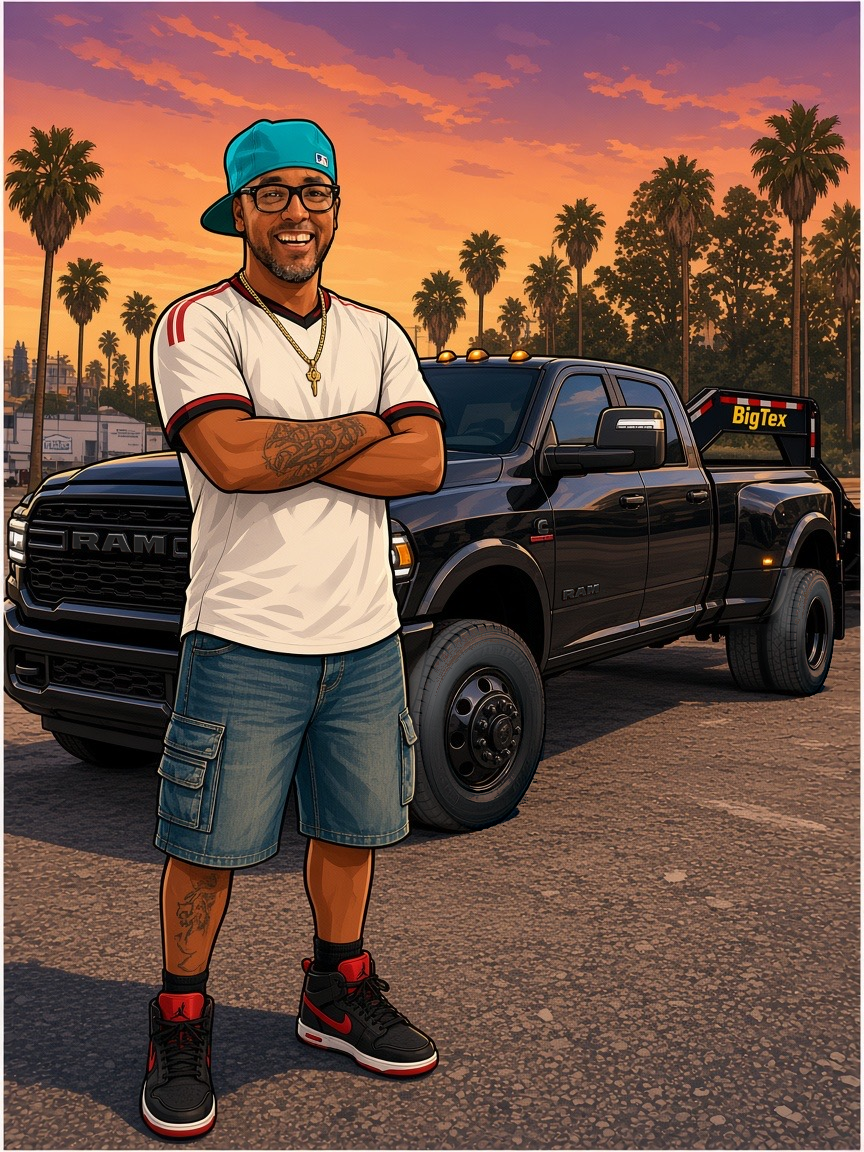
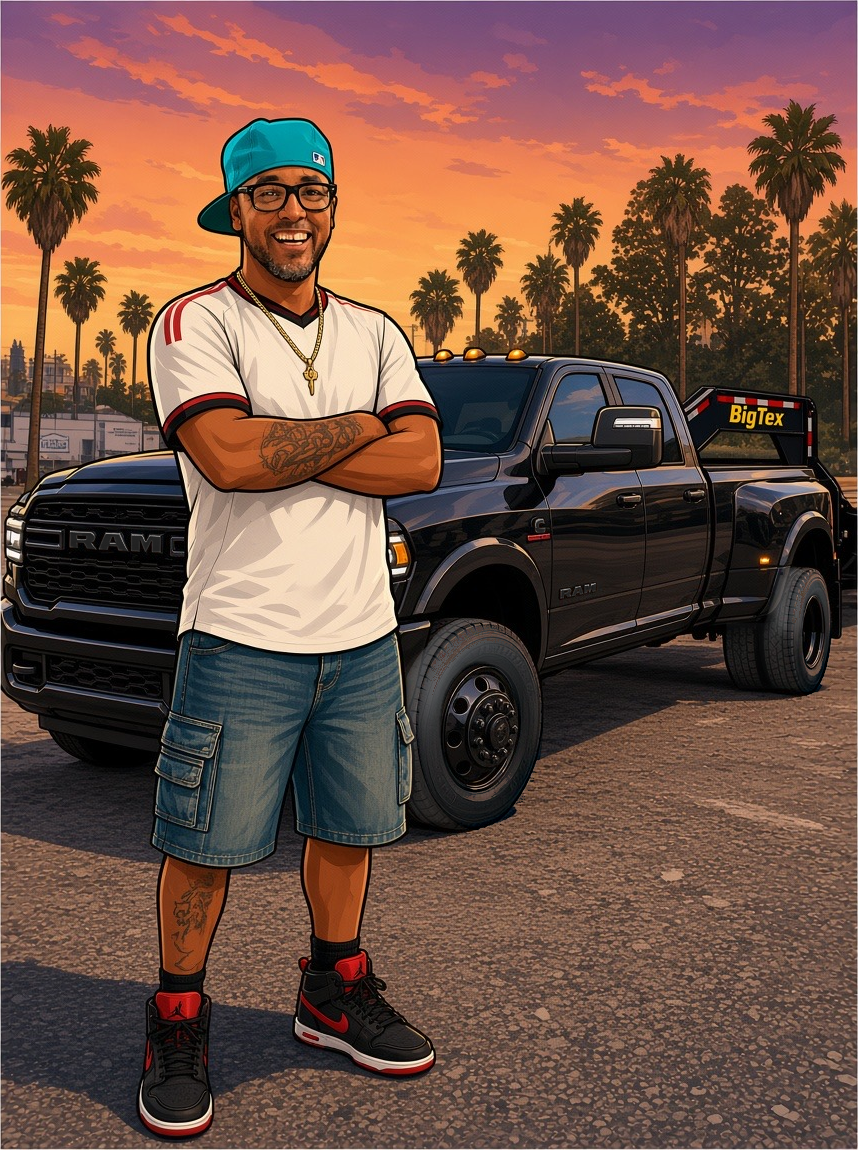
v133 Team portraits: crop the white GTA frame off Claudio, Ben, Meshach and Felix (lossless PNG, full resolution) so the art fills the rounded frame edge to edge with object-fit:cover. Hero and roster faces have no CSS white border, outline or padding; the gold ring and dark card line stay. [skip ci

diff --git a/driver360.js b/driver360.js
@@ -9,7 +9,7 @@
   var PIN_KEY = 'blackram_relay_pin_v1';
   var FIN_KEY = 'blackram_fin_session_v1';
   var NAME = 'Meshach';
-  var ART = 'brand/meshach-360.png?v=129';
+  var ART = 'brand/meshach-360.png?v=133';
   var MON = ['Jan', 'Feb', 'Mar', 'Apr', 'May', 'Jun', 'Jul', 'Aug', 'Sep', 'Oct', 'Nov', 'Dec'];
   var DOT_IDS = ['d-cdl', 'd-med', 'd-dq', 'd-da', 'd-eld', 'd-hos', 'd-eldpack', 'd-blank', 't-pre', 't-dvir'];
   var DOT_SHORT = { 'd-cdl': 'Class A CDL', 'd-med': 'Med card', 'd-dq': 'DQ file (Totni)', 'd-da': 'Drug and alcohol pool', 'd-eld': 'ELD login', 'd-hos': 'HOS logs', 'd-eldpack': 'ELD packet in cab', 'd-blank': 'Blank paper logs', 't-pre': 'Pre-trip habit', 't-dvir': 'DVIR / post-trip' };
@@ -192,7 +192,7 @@
     var c = s.current;
     var now = c ? '<b>Now:</b> ' + esc(city(c.pickup_place)) + ' to ' + esc(city(c.drop_place)) + ' | ' + esc(c.status || 'booked') :
       (s.last ? '<b>Now:</b> no load booked. Last drop ' + esc(city(s.last.drop_place)) + ' ' + day(s.last.delivered_date || s.last.delivery_date) : '<b>Now:</b> no loads yet');
-    return '<figure class="d3-hero"><img src="' + ART + '" width="864" height="1152" alt="Illustration of Meshach, arms crossed, in front of the black Ram 3500 dually with the Big Tex gooseneck hitch at sunset." decoding="async">' +
+    return '<figure class="d3-hero"><img src="' + ART + '" width="858" height="1150" alt="Illustration of Meshach, arms crossed, in front of the black Ram 3500 dually with the Big Tex gooseneck hitch at sunset." decoding="async">' +
       '<figcaption><span class="d3-kick">Driver 360</span><b>' + NAME + '</b><span class="d3-role">Driver and 1/3 partner | Black Ram Logistics</span>' +
       '<span class="d3-chips"><span class="d3-chip">' + s.loads + ' loads</span><span class="d3-chip">' + n0(s.loaded + s.dead) + ' mi</span><span class="d3-chip">Since ' + day(s.first) + '</span></span></figcaption></figure>' +
       '<div class="d3-now tl-tap tl-chev"' + ta('d3', 'now', 'Current or next load. Show') + '>' + now + '</div>';
@@ -592,7 +592,7 @@
     var s = document.createElement('style'); s.id = 'd3-css';
     s.textContent =
       '.d3-teaser{display:flex;align-items:center;gap:10px;margin:8px 0 0;padding:8px 10px;border:1px solid var(--c-line);border-radius:10px;background:var(--c-surface-1);color:var(--c-text-1);text-align:left}' +
-      '.d3-face{flex:0 0 52px;width:52px;height:52px;border-radius:50%;background-size:330%;background-position:31% 13%;border:2px solid var(--c-gold);box-shadow:0 0 0 2px var(--c-surface-1)}' +
+      '.d3-face{flex:0 0 52px;width:52px;height:52px;border-radius:50%;overflow:hidden;background-color:#2a1a33;background-size:330%;background-position:31% 13%;background-repeat:no-repeat;background-clip:padding-box;border:2px solid var(--c-gold);box-shadow:0 0 0 2px var(--c-surface-1);padding:0;outline:0}' +
       '.d3-tm{display:flex;flex-direction:column;min-width:0;line-height:1.15}.d3-tm small{font-size:10px;font-weight:800;letter-spacing:.08em;text-transform:uppercase;color:var(--c-gold)}.d3-tm b{font-size:17px;font-weight:900}.d3-tm span{font-size:11px;color:var(--c-text-3);font-weight:700}' +
       '.d3-ts{display:flex;gap:8px;margin-left:auto}.d3-ts span{display:flex;flex-direction:column;align-items:center;font-size:9.5px;color:var(--c-text-3);font-weight:700;line-height:1.1}.d3-ts b{font-size:14px;color:var(--num-yellow,var(--c-gold,#F2C94C));font-weight:900}' +
       '.d3-tchev{font-size:24px;color:var(--c-text-3);line-height:1;margin-left:2px}' +
@@ -602,7 +602,7 @@
       '.d3-back{min-height:40px;min-width:64px;border-radius:var(--radius-pill,999px);border:1px solid var(--c-line-strong);background:var(--c-surface-2);color:var(--c-text-1);font-weight:800;font-size:14px}' +
       '.d3-scroll{flex:1;overflow-y:auto;-webkit-overflow-scrolling:touch;padding:12px 12px calc(env(safe-area-inset-bottom,0px) + var(--bnav-h,64px) + 28px);max-width:560px;width:100%;margin:0 auto;box-sizing:border-box;display:flex;flex-direction:column;gap:12px}' +
       '.d3-scroll>*{flex-shrink:0}' +
-      '.d3-hero{position:relative;margin:0;border-radius:14px;overflow:hidden;border:1px solid var(--c-line);aspect-ratio:3/4;background:#2a1a33}.d3-hero img{display:block;width:100%;height:100%;object-fit:cover}.d3-orbit{position:relative;overflow:hidden;perspective:900px;touch-action:none;cursor:grab;-webkit-user-select:none;user-select:none;-webkit-tap-highlight-color:transparent}.d3-orbit.d3-grab{cursor:grabbing}.d3-hero-stage{width:100%;height:100%;transform-style:preserve-3d;transform-origin:50% 46%;will-change:transform}.d3-orbit .d3-hero-stage img{display:block;width:100%;height:100%;object-fit:cover;pointer-events:none;-webkit-user-drag:none}' +
+      '.d3-hero{position:relative;margin:0;border-radius:14px;overflow:hidden;border:1px solid var(--c-line);aspect-ratio:3/4;background:#2a1a33}.d3-hero img{display:block;width:100%;height:100%;object-fit:cover;object-position:center;border:0;outline:0;box-shadow:none;padding:0;margin:0;background:transparent}.d3-orbit{position:relative;overflow:hidden;perspective:900px;touch-action:none;cursor:grab;-webkit-user-select:none;user-select:none;-webkit-tap-highlight-color:transparent}.d3-orbit.d3-grab{cursor:grabbing}.d3-hero-stage{width:100%;height:100%;transform-style:preserve-3d;transform-origin:50% 46%;will-change:transform}.d3-orbit .d3-hero-stage img{display:block;width:100%;height:100%;object-fit:cover;object-position:center;pointer-events:none;-webkit-user-drag:none;border:0;outline:0;box-shadow:none;padding:0;margin:0;background:transparent}' +
       '.d3-hero figcaption{position:absolute;left:0;right:0;bottom:0;z-index:2;padding:48px 14px 14px;background:linear-gradient(180deg,rgba(15,13,23,0),rgba(15,13,23,.78) 45%,rgba(15,13,23,.95));display:flex;flex-direction:column;gap:2px;pointer-events:none}' +
       '.d3-hero-hint{position:absolute;left:50%;top:14px;transform:translateX(-50%);z-index:3;padding:5px 10px;border-radius:999px;background:rgba(15,13,23,.72);color:#F2C94C;font-size:11px;font-weight:800;letter-spacing:.04em;pointer-events:none;opacity:0}.d3-orbit:not([data-d3-touched]) .d3-hero-hint{opacity:1}' +
       '.d3-hero-reset{position:absolute;top:10px;left:10px;z-index:3;display:none;min-height:32px;padding:0 10px;border-radius:999px;border:1px solid rgba(242,201,76,.35);background:rgba(15,13,23,.72);color:#F2C94C;font-size:12px;font-weight:800}.d3-orbit[data-d3-adjusted] .d3-hero-reset{display:block}' +

diff --git a/team.js b/team.js
@@ -10,7 +10,7 @@
   var RELAY = 'https://blackram-relay.sandlilypad.workers.dev';
   var PIN_KEY = 'blackram_relay_pin_v1';
   var FIN_KEY = 'blackram_fin_session_v1';
-  var ART_V = '129';
+  var ART_V = '133';
   var MON = ['Jan', 'Feb', 'Mar', 'Apr', 'May', 'Jun', 'Jul', 'Aug', 'Sep', 'Oct', 'Nov', 'Dec'];
   var PEOPLE = [
     {
@@ -21,7 +21,7 @@
       role: 'Partner / owner | Dispatch, loads, finances, and back office',
       short: 'Owner · dispatch and back office',
       chips: ['1/3 partner', 'Does not drive'],
-      art: 'brand/claudio-360.jpg?v=' + ART_V,
+      art: 'brand/claudio-360.png?v=' + ART_V, w: 849, h: 1136,
       alt: 'Illustration of Claudio, gray hair and sunglasses, arms crossed in front of a white Audi RS Q8 at sunset.',
       duties: [
         { t: 'Dispatch', s: 'In-house', d: 'since Nov 1, 2026' },
@@ -40,7 +40,7 @@
       role: 'Partner | Trailer capital and company paydowns',
       short: 'Partner · trailer capital',
       chips: ['1/3 partner', 'Trailer capital'],
-      art: 'brand/ben-360.jpg?v=' + ART_V,
+      art: 'brand/ben-360.png?v=' + ART_V, w: 851, h: 1131,
       alt: 'Illustration of Ben in a tan coat, in front of the black Ram 3500 dually and Big Tex gooseneck at sunset.',
       duties: [
         { t: 'Trailer capital', s: 'Cash down', d: 'invoice minus financed' },
@@ -59,7 +59,7 @@
       role: 'Driver and 1/3 partner | Black Ram Logistics',
       short: 'Driver + partner',
       chips: ['1/3 partner', 'Driver'],
-      art: 'brand/meshach-360.png?v=' + ART_V,
+      art: 'brand/meshach-360.png?v=' + ART_V, w: 858, h: 1150,
       alt: 'Illustration of Meshach, arms crossed, in front of the black Ram 3500 dually with the Big Tex gooseneck hitch at sunset.',
       driver360: true
     },
@@ -71,7 +71,7 @@
       role: 'Carrier owner | Totni, our lease-on carrier',
       short: 'Totni owner · lease-on carrier',
       chips: ['MC 1122113', '13% cut', 'COI 12/10/26'],
-      art: 'brand/felix-360.jpg?v=' + ART_V,
+      art: 'brand/felix-360.png?v=' + ART_V, w: 846, h: 1131,
       alt: 'Illustration of Felix in a dark suit, in front of a Ram and freight trucks at sunset.',
       duties: [
         { t: 'MC authority', s: '1122113', d: 'Totni MC' },
@@ -259,7 +259,7 @@
     if (p.group === 'partner' && s && s.loads && (p.id === 'claudio' || p.id === 'meshach')) {
       chips += '<span class="d3-chip">' + s.loads + ' company loads</span><span class="d3-chip">' + n0(s.loaded + s.dead) + ' mi</span>';
     }
-    return '<figure class="d3-hero"><img src="' + esc(p.art) + '" width="864" height="1152" alt="' + esc(p.alt) + '" decoding="async">' +
+    return '<figure class="d3-hero"><img src="' + esc(p.art) + '" width="' + (p.w || 864) + '" height="' + (p.h || 1152) + '" alt="' + esc(p.alt) + '" decoding="async">' +
       '<figcaption><span class="d3-kick">' + esc(p.kick) + '</span><b>' + esc(p.name) + '</b><span class="d3-role">' + esc(p.role) + '</span>' +
       '<span class="d3-chips">' + chips + '</span></figcaption></figure>';
   }
@@ -440,7 +440,7 @@
       '.d3-back{min-height:40px;min-width:64px;border-radius:var(--radius-pill,999px);border:1px solid var(--c-line-strong);background:var(--c-surface-2);color:var(--c-text-1);font-weight:800;font-size:14px}' +
       '.d3-scroll{flex:1;overflow-y:auto;-webkit-overflow-scrolling:touch;padding:12px 12px calc(env(safe-area-inset-bottom,0px) + var(--bnav-h,64px) + 28px);max-width:560px;width:100%;margin:0 auto;box-sizing:border-box;display:flex;flex-direction:column;gap:12px}' +
       '.d3-scroll>*{flex-shrink:0}' +
-      '.d3-hero{position:relative;margin:0;border-radius:14px;overflow:hidden;border:1px solid var(--c-line);aspect-ratio:3/4;background:#2a1a33}.d3-hero img{display:block;width:100%;height:100%;object-fit:cover}' +
+      '.d3-hero{position:relative;margin:0;border-radius:14px;overflow:hidden;border:1px solid var(--c-line);aspect-ratio:3/4;background:#2a1a33}.d3-hero img{display:block;width:100%;height:100%;object-fit:cover;object-position:center;border:0;outline:0;box-shadow:none;padding:0;margin:0;background:transparent}' +
       '.d3-hero figcaption{position:absolute;left:0;right:0;bottom:0;padding:48px 14px 14px;background:linear-gradient(180deg,rgba(15,13,23,0),rgba(15,13,23,.78) 45%,rgba(15,13,23,.95));display:flex;flex-direction:column;gap:2px}' +
       '.d3-kick{font-size:11px;font-weight:900;letter-spacing:.12em;text-transform:uppercase;color:var(--c-gold)}.d3-hero figcaption>b{font-size:34px;font-weight:900;line-height:1;letter-spacing:.01em}.d3-role{font-size:13px;font-weight:700;color:var(--c-text-2)}' +
       '.d3-chips{display:flex;flex-wrap:wrap;gap:6px;margin-top:8px}.d3-chip{font-size:12px;font-weight:800;padding:4px 10px;border-radius:999px;background:rgba(242,201,76,.16);color:var(--c-gold);border:1px solid rgba(242,201,76,.35)}' +
@@ -474,7 +474,7 @@
       '.tm-h{margin:8px 2px 0;font-size:12px;font-weight:900;letter-spacing:.1em;text-transform:uppercase;color:var(--c-text-3)}' +
       '.tm-list{display:flex;flex-direction:column;gap:8px}' +
       '.tm-card{display:flex;align-items:center;gap:12px;margin:0;padding:10px 10px;border:1px solid var(--c-line);border-radius:14px;background:var(--c-surface-1);color:var(--c-text-1);text-align:left;width:100%;min-height:88px;box-sizing:border-box}' +
-      '.tm-face{flex:0 0 72px;width:72px;height:72px;border-radius:50%;background-repeat:no-repeat;border:2px solid var(--c-gold);box-shadow:0 0 0 2px var(--c-surface-1)}' +
+      '.tm-face{flex:0 0 72px;width:72px;height:72px;border-radius:50%;overflow:hidden;background-color:#2a1a33;background-repeat:no-repeat;background-clip:padding-box;border:2px solid var(--c-gold);box-shadow:0 0 0 2px var(--c-surface-1);padding:0;outline:0}' +
       '.tm-face.is-claudio{background-size:150%;background-position:62% 6%}' +
       '.tm-face.is-ben{background-size:200%;background-position:54% 4%}' +
       '.tm-face.is-meshach{background-size:330%;background-position:31% 13%}' +

diff --git a/index.html b/index.html
@@ -18,8 +18,8 @@
   <link rel="apple-touch-icon" href="icons/apple-touch-icon.png?v=4" sizes="180x180" />
   <link rel="preload" href="fonts/nunito-sans-variable.woff2" as="font" type="font/woff2" crossorigin />
   <link rel="preload" href="fonts/oswald-700.woff2" as="font" type="font/woff2" crossorigin />
-  <link rel="stylesheet" href="styles.css?v=132" />
-  <link rel="stylesheet" href="desktop.css?v=132" />
+  <link rel="stylesheet" href="styles.css?v=133" />
+  <link rel="stylesheet" href="desktop.css?v=133" />
   <link rel="stylesheet" href="vendor/leaflet/leaflet.css" />
   <script>
     try {
@@ -531,7 +531,7 @@
       <footer class="footer">
         <p><strong>Black Ram Logistics</strong> | DBA of Sand Lily Pad LLC</p>
         <p>Estimates are marked EST. Not a quote and not tax advice.</p>
-        <p class="app-version" id="app-version">v132</p>
+        <p class="app-version" id="app-version">v133</p>
       </footer>
       <div class="pad" aria-hidden="true"></div>
     </main>
@@ -697,31 +697,31 @@
   </div>
   <noscript><p class="noscript">Black Ram Logistics needs JavaScript for Rate Check, stops, and reports.</p></noscript>
   <script src="vendor/leaflet/leaflet.js"></script>
-  <script src="tiles.js?v=132"></script>
-  <script src="maps.js?v=132"></script>
-  <script src="wxicons.js?v=132"></script>
-  <script src="truckloc.js?v=132"></script>
-  <script src="tripplan.js?v=132"></script>
-  <script src="app.js?v=132"></script>
-  <script src="pullbar.js?v=132"></script>
-  <script src="stops.js?v=132"></script>
-  <script src="targets.js?v=132"></script>
-  <script src="loadcosts.js?v=132"></script>
-  <script src="reports.js?v=132"></script>
-  <script src="scoreboard.js?v=132"></script>
-  <script src="accounting.js?v=132"></script>
-  <script src="insurance.js?v=132"></script>
-  <script src="maintenance.js?v=132"></script>
-  <script src="dotready.js?v=132"></script>
-  <script src="tax.js?v=132"></script>
-  <script src="actions.js?v=132"></script>
-  <script src="loans.js?v=132"></script>
-  <script src="rig360.js?v=132"></script>
-  <script src="driver360.js?v=132"></script>
-  <script src="team.js?v=132"></script>
-  <script src="today.js?v=132"></script>
-  <script src="search.js?v=132"></script>
-  <script src="wxbar.js?v=132"></script>
+  <script src="tiles.js?v=133"></script>
+  <script src="maps.js?v=133"></script>
+  <script src="wxicons.js?v=133"></script>
+  <script src="truckloc.js?v=133"></script>
+  <script src="tripplan.js?v=133"></script>
+  <script src="app.js?v=133"></script>
+  <script src="pullbar.js?v=133"></script>
+  <script src="stops.js?v=133"></script>
+  <script src="targets.js?v=133"></script>
+  <script src="loadcosts.js?v=133"></script>
+  <script src="reports.js?v=133"></script>
+  <script src="scoreboard.js?v=133"></script>
+  <script src="accounting.js?v=133"></script>
+  <script src="insurance.js?v=133"></script>
+  <script src="maintenance.js?v=133"></script>
+  <script src="dotready.js?v=133"></script>
+  <script src="tax.js?v=133"></script>
+  <script src="actions.js?v=133"></script>
+  <script src="loans.js?v=133"></script>
+  <script src="rig360.js?v=133"></script>
+  <script src="driver360.js?v=133"></script>
+  <script src="team.js?v=133"></script>
+  <script src="today.js?v=133"></script>
+  <script src="search.js?v=133"></script>
+  <script src="wxbar.js?v=133"></script>
   <script>
     (function () {
       if (!('serviceWorker' in navigator)) return;

diff --git a/sw.js b/sw.js
@@ -10,75 +10,75 @@
    the network request fails, so live search progress shows without a version bump.
    Open-Meteo (appbar weather chip, wxbar.js) is cross-origin: this worker never touches or
    caches it, the page keeps its own 30 min copy in localStorage. */
-var CACHE = 'blackram-v132';
+var CACHE = 'blackram-v133';
 var ASSETS = [
   './',
   './index.html',
   './styles.css',
-  './styles.css?v=132',
+  './styles.css?v=133',
   './desktop.css',
-  './desktop.css?v=132',
+  './desktop.css?v=133',
   './app.js',
-  './app.js?v=132',
+  './app.js?v=133',
   './pullbar.js',
-  './pullbar.js?v=132',
+  './pullbar.js?v=133',
   './maps.js',
-  './maps.js?v=132',
+  './maps.js?v=133',
   './wxicons.js',
-  './wxicons.js?v=132',
+  './wxicons.js?v=133',
   './stops.js',
-  './stops.js?v=132',
+  './stops.js?v=133',
   './targets.js',
   './loadcosts.js',
-  './loadcosts.js?v=132',
+  './loadcosts.js?v=133',
   './tripplan.js',
-  './tripplan.js?v=132',
+  './tripplan.js?v=133',
   './data/pilot_fj.json',
-  './targets.js?v=132',
+  './targets.js?v=133',
   './reports.js',
-  './reports.js?v=132',
+  './reports.js?v=133',
   './scoreboard.js',
   './accounting.js',
-  './accounting.js?v=132',
+  './accounting.js?v=133',
   './insurance.js',
-  './insurance.js?v=132',
+  './insurance.js?v=133',
   './maintenance.js',
-  './maintenance.js?v=132',
+  './maintenance.js?v=133',
   './dotready.js',
-  './dotready.js?v=132',
+  './dotready.js?v=133',
   './tax.js',
-  './tax.js?v=132',
+  './tax.js?v=133',
   './actions.js',
-  './actions.js?v=132',
+  './actions.js?v=133',
   './loans.js',
-  './loans.js?v=132',
+  './loans.js?v=133',
   './data/actions.json',
   './rig360.js',
   './tiles.js',
-  './tiles.js?v=132',
-  './rig360.js?v=132',
+  './tiles.js?v=133',
+  './rig360.js?v=133',
   './driver360.js',
-  './driver360.js?v=132',
+  './driver360.js?v=133',
   './team.js',
-  './team.js?v=132',
+  './team.js?v=133',
   './today.js',
-  './today.js?v=132',
+  './today.js?v=133',
   './search.js',
-  './search.js?v=132',
+  './search.js?v=133',
   './truckloc.js',
-  './truckloc.js?v=132',
+  './truckloc.js?v=133',
   './wxbar.js',
-  './wxbar.js?v=132',
+  './wxbar.js?v=133',
   './brand/meshach-360.png',
-  './brand/meshach-360.png?v=132',
-  './brand/claudio-360.jpg',
-  './brand/claudio-360.jpg?v=132',
-  './brand/ben-360.jpg',
-  './brand/ben-360.jpg?v=132',
-  './brand/felix-360.jpg',
-  './brand/felix-360.jpg?v=132',
+  './brand/meshach-360.png?v=133',
+  './brand/claudio-360.png',
+  './brand/claudio-360.png?v=133',
+  './brand/ben-360.png',
+  './brand/ben-360.png?v=133',
+  './brand/felix-360.png',
+  './brand/felix-360.png?v=133',
   './vendor/three/three.module.min.js',
-  './scoreboard.js?v=132',
+  './scoreboard.js?v=133',
   './manifest.json',
   './manifest.json?v=3',
   './manifest.webmanifest',

diff --git a/app.js b/app.js
@@ -1,7 +1,7 @@
 (function () {
   'use strict';
 
-  var APP_VERSION = 'v132';
+  var APP_VERSION = 'v133';
   var RELAY_URL = 'https://blackram-relay.sandlilypad.workers.dev';
   var RELAY_PIN_KEY = 'blackram_relay_pin_v1';
   var DELIVERED_SYNC_KEY = 'blackram_delivered_sync_v1';
